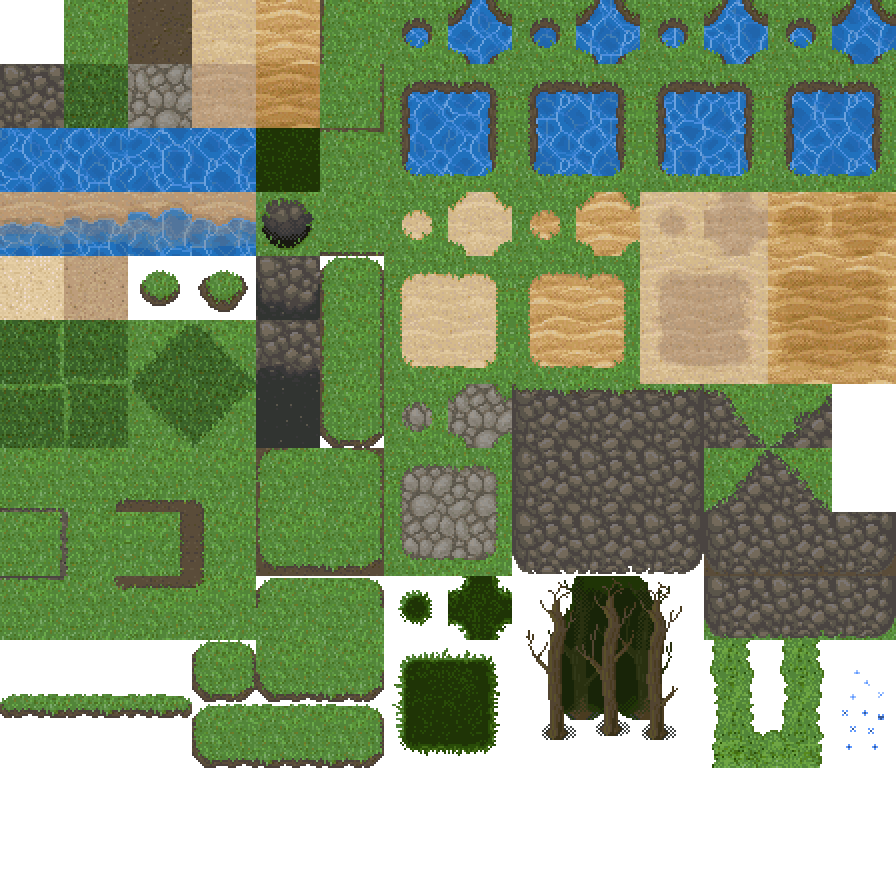
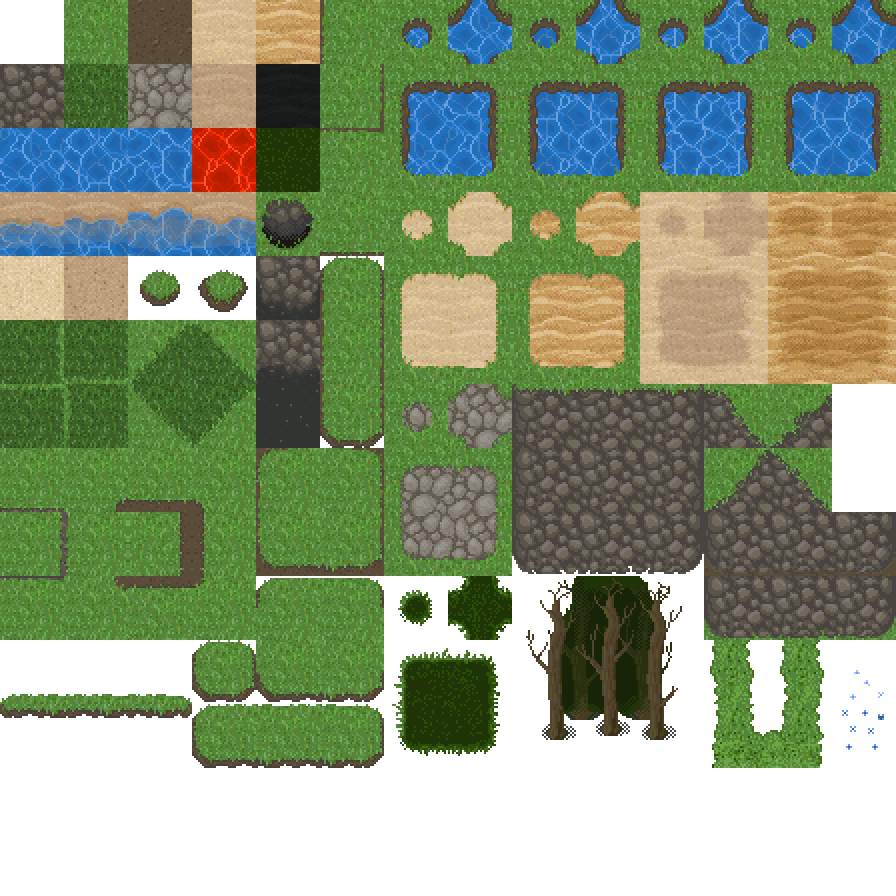
Fixato miniera e creato 2 tile extra, lava e ossidiana

Changed region(s): [[0.1875, 0.0625, 0.375, 0.2188]]

diff --git a/Livello.py b/Livello.py
@@ -110,7 +110,7 @@ class Livello:
                     self.add_move(x, y, Muro_base(), add=True)
                 else:
                     pass
-                    #self.add_move(x, y, Muro_ossidiana(), add=True)
+                    # self.add_move(x, y, Muro_ossidiana(), add=True)
                 current += 1
                 print("\rCostruzione muri...", round((current / total_size)*100), end="")
 

diff --git a/Miniera.py b/Miniera.py
@@ -21,5 +21,5 @@ class Miniera:
         """
         lev = Livello()
         # lev.builder(lambda: lev.perlin_builder((31, 31), threshold=0))
-        lev.builder(lambda: lev.life_builder((31, 31)))
+        lev.builder(lambda: lev.perlin_builder((31, 31)))
         return lev

diff --git a/Grafica.py b/Grafica.py
@@ -33,6 +33,7 @@ def setup():
         "pavimento": (3, 1),
         "muro": (0, 1),
         "acqua": (0, 2),
+        "lava": ()
     }
     carica_immagine("immagini/spriteFix.png", sprite_nani)
     carica_immagine("immagini/tiles.png", tiles)

diff --git a/Pavimento.py b/Pavimento.py
@@ -27,5 +27,7 @@ class Acqua(Pavimento):
 
 class Lava(Pavimento):
     def __init__(self):
+        super(Lava, self).__init__()
         self.nome = self.get_name()
         self.mod_movimento = 0
+        self.sprite = "lava"
